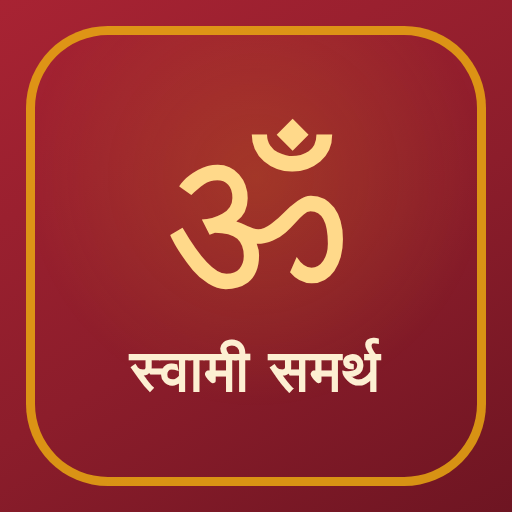
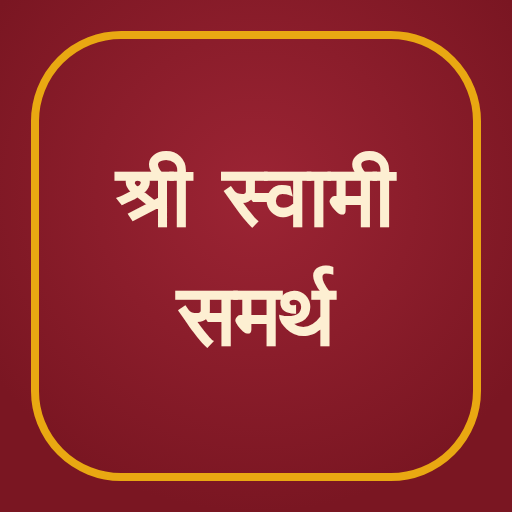
होम स्क्रीन आयकॉन (ॐ ऐवजी फक्त मजकूर) + पटकन प्रश्न-उत्तर चॅटबॉट
आयकॉन: ॐ चिन्हाऐवजी आता फक्त "श्री स्वामी समर्थ" मजकूर — तीच
मरून-गोल्डन ब्रँड शैली, तीनही साईज (512/192/apple-touch-icon) मध्ये.

चॅटबॉट: तळाशी उजवीकडे 💬 बटण — दाबल्यावर बॉटम-शीट उघडते. ८ तयार
प्रश्न-चिप्स (आरतीची वेळ, मुद्रण साहित्य, कार्यक्रम/उत्सव, संपर्क,
केंद्राची वेळ, बाल संस्कार, जपमाळ, होम स्क्रीन) + मोकळा टेक्स्ट-बॉक्स
(keyword जुळणीने उत्तर शोधतो). उत्तरं थेट KENDRA डेटावरून — बाहेरचं
AI/इंटरनेट काहीही लागत नाही, त्यामुळे नेहमी अद्ययावत व मोफत. न
जुळल्यास केंद्राच्या फोन नंबरकडे निर्देश करतो. संभाषण बंद-उघड
केल्यावरही टिकून राहतं.

Changed region(s): [[0.0, 0.0, 0.9688, 0.9688], [0.2188, 0.2188, 0.7812, 0.7812], [0.8438, 0.0, 1.0, 0.0625]]

diff --git a/index.html b/index.html
@@ -1233,6 +1233,44 @@ footer{text-align:center;margin-top:30px;font-size:14px;color:var(--shai-soft);l
   .bsheet-panel{border-radius:18px; max-height:min(78vh,640px)}
 }
 
+/* ---------- पटकन प्रश्न-उत्तर (FAQ चॅट) ---------- */
+.chatFab{
+  position:fixed; right:16px; bottom:calc(88px + env(safe-area-inset-bottom) + 14px);
+  z-index:19; width:54px; height:54px; border-radius:50%; border:0; cursor:pointer;
+  background:linear-gradient(180deg,#E9A812,#B54714); color:#fff8ea; font-size:23px;
+  display:flex; align-items:center; justify-content:center;
+  box-shadow:0 8px 20px -4px rgba(140,29,43,.45);
+}
+.chatFab:focus-visible{outline:3px solid var(--haldi); outline-offset:3px}
+.chat-panel{display:flex; flex-direction:column; overflow:hidden}
+.chat-log{
+  flex:1 1 auto; overflow-y:auto; display:flex; flex-direction:column; gap:10px;
+  padding:4px 2px 8px; margin-bottom:8px; min-height:100px; max-height:42vh;
+}
+.chat-msg{max-width:84%; padding:10px 13px; border-radius:14px; font-size:14.5px; line-height:1.55}
+.chat-msg.user{align-self:flex-end; background:var(--kumkum); color:#FFF3DA; border-bottom-right-radius:4px}
+.chat-msg.bot{align-self:flex-start; background:rgba(181,71,20,.08); color:var(--shai); border:1px solid var(--line); border-bottom-left-radius:4px}
+.chat-msg.bot b{color:var(--kumkum)}
+.chat-msg.bot a{color:var(--kesari); font-weight:600}
+.chat-chips{display:flex; flex-wrap:wrap; gap:7px; margin-bottom:10px; flex:0 0 auto}
+.chat-chips button{
+  font-family:inherit; font-size:12.5px; font-weight:600; color:var(--kesari);
+  background:rgba(217,83,30,.08); border:1px solid rgba(217,83,30,.25);
+  border-radius:999px; padding:8px 12px; cursor:pointer; min-height:36px;
+}
+.chat-chips button:focus-visible{outline:3px solid var(--haldi); outline-offset:2px}
+.chat-inputrow{display:flex; gap:8px; flex:0 0 auto}
+.chat-inputrow input{
+  flex:1 1 auto; min-width:0; padding:12px 14px; border:1px solid var(--line); border-radius:12px;
+  font-family:inherit; font-size:15px; background:var(--card); color:var(--shai);
+}
+.chat-inputrow input:focus-visible{outline:2px solid var(--haldi); outline-offset:1px}
+.chat-inputrow button{
+  width:44px; height:44px; border-radius:12px; border:0; flex:0 0 auto;
+  background:var(--kumkum); color:#FFF3DA; font-size:17px; cursor:pointer;
+}
+.chat-inputrow button:focus-visible{outline:3px solid var(--haldi); outline-offset:2px}
+
 @media (prefers-reduced-motion:reduce){
   *,*::before,*::after{animation:none!important;transition:none!important}
   .tl::after{transition:none!important}
@@ -1810,6 +1848,23 @@ footer{text-align:center;margin-top:30px;font-size:14px;color:var(--shai-soft);l
     <p class="bsheet-sub" id="bsheetSub"></p>
     <div class="bsheet-body" id="bsheetBody"></div>
     <button type="button" class="bsheet-close" id="bsheetClose">बंद करा</button>
+  </div>
+</div>
+
+<!-- पटकन प्रश्न-उत्तर (साधे FAQ — इंटरनेट/AI लागत नाही, साईटवरच्या माहितीतून थेट उत्तर) -->
+<button type="button" class="chatFab" id="chatFab" aria-label="पटकन प्रश्न विचारा">💬</button>
+<div class="bsheet" id="chatSheet" hidden>
+  <div class="bsheet-panel chat-panel" role="dialog" aria-modal="true" aria-labelledby="chatTitle">
+    <div class="bsheet-handle" aria-hidden="true"></div>
+    <h3 class="bsheet-title" id="chatTitle">पटकन प्रश्न-उत्तर</h3>
+    <p class="bsheet-sub">खालीलपैकी निवडा, किंवा टाईप करा</p>
+    <div class="chat-log" id="chatLog" aria-live="polite"></div>
+    <div class="chat-chips" id="chatChips"></div>
+    <form class="chat-inputrow" id="chatForm">
+      <input type="text" id="chatInput" placeholder="इथे प्रश्न टाईप करा…" autocomplete="off" aria-label="प्रश्न टाईप करा">
+      <button type="submit" aria-label="पाठवा">➤</button>
+    </form>
+    <button type="button" class="bsheet-close" id="chatClose">बंद करा</button>
   </div>
 </div>
 
@@ -4959,6 +5014,129 @@ const aartiSub = (function(){
   });
 })();
 
+
+// ---------- पटकन प्रश्न-उत्तर (FAQ चॅट) ----------
+// साधं keyword-जुळणी करणारं उत्तर-यंत्र — कुठलंही बाहेरचं AI/इंटरनेट लागत नाही,
+// साईटवरच्या KENDRA डेटावरूनच थेट, अद्ययावत उत्तर तयार होतं.
+(function(){
+  const fab = document.getElementById("chatFab");
+  const sheet = document.getElementById("chatSheet");
+  const log = document.getElementById("chatLog");
+  const chipsBox = document.getElementById("chatChips");
+  const form = document.getElementById("chatForm");
+  const input = document.getElementById("chatInput");
+  const closeBtn = document.getElementById("chatClose");
+  if(!fab || !sheet) return;
+  const reduced = matchMedia("(prefers-reduced-motion: reduce)").matches;
+
+  function aartiVel(){
+    const ctx = buildSevaCtx(istNow());
+    const list = ctx.sevaAaj.filter(s => s.name.includes("आरती") && s.lagu);
+    if(!list.length) return "आज आरतीची विशेष वेळ नोंदवलेली नाही — 'आरती' टॅबवर पूर्ण वेळापत्रक पहा.";
+    return "आजच्या आरत्या —<br>" + list.map(s => "🪔 " + s.name + ": <b>" + show(s.t) + "</b>").join("<br>");
+  }
+  function mudranMahiti(){
+    const rows = (KENDRA.mudran || []).map(m => m.d + ": <b>" + m.v + "</b>").join("<br>");
+    return "🖨 मुद्रण विभाग वेळ —<br>" + (rows || "माहिती लवकरच") +
+      "<br>अधिक माहितीसाठी 'माहिती' टॅबवरील मुद्रण विभाग पहा.";
+  }
+  function karyakramMahiti(){
+    const now = istNow();
+    const list = KENDRA.utsavSmaran || [];
+    const udya = dayKey(new Date(now.getFullYear(), now.getMonth(), now.getDate() + 1));
+    const ajISO = dayKey(now);
+    const aaj = list.find(s => s.date === ajISO);
+    const ubha = !aaj && list.find(s => s.date === udya);
+    const hit = aaj || ubha;
+    if(hit) return (aaj ? "🕉 आज — " : "🕉 उद्या — ") + "<b>" + hit.naav + "</b><br>सविस्तर 'कार्यक्रम' टॅबवर पहा.";
+    return "सध्या खास उत्सव जवळ नाही. संपूर्ण वार्षिक कार्यक्रम यादीसाठी 'कार्यक्रम' टॅब पहा.";
+  }
+  function sampark(){
+    return "📞 " + KENDRA.sevekari + ": <b>" + (KENDRA.phoneDisp || "") + "</b><br>📍 " + (KENDRA.patta || "");
+  }
+  function kendraVel(){
+    return "साधारण वेळ — सकाळी ७:०० ते दुपारी १:००, आणि दुपारी ४:०० ते रात्री ८:०० (गुरुवारी ९:०० पर्यंत).<br>सध्या केंद्र उघडं आहे की बंद, ते 'आज' टॅबवर वरतीच लगेच दिसतं.";
+  }
+  function balsanskarMahiti(){
+    const rows = (KENDRA.balsanskar || []).map(m => m.d + ": <b>" + m.v + "</b>").join("<br>");
+    return "🧒 बाल संस्कार वर्ग —<br>" + (rows || "") + "<br>वय ६ ते १४ वर्षे · प्रवेश विनामूल्य. नोंदणीसाठी 'माहिती' टॅबवरील फॉर्म वापरा.";
+  }
+  function homeScreen(){
+    return "पानाच्या अगदी वर एक पट्टी दिसते — तिथे \"होम स्क्रीनवर ठेवा\" असं लिहिलेलं आहे, तिथून करता येईल.";
+  }
+  function japmala(){
+    return "'आरती' टॅब → 'जपमाळा' उपटॅबमध्ये मधलं मोठं बटण दाबून जप मोजता येतो. एकदा दाबा = एक जप.";
+  }
+
+  const FAQ = [
+    { q:"आजची आरतीची वेळ काय?", kw:["आरती","आरतीची","आरत्या"], a:aartiVel },
+    { q:"मुद्रण साहित्य कधी मिळेल?", kw:["मुद्रण","साहित्य","पुस्तक","प्रिंट","छाप"], a:mudranMahiti },
+    { q:"आजचा कार्यक्रम/उत्सव काय?", kw:["कार्यक्रम","उत्सव","सण"], a:karyakramMahiti },
+    { q:"केंद्राशी संपर्क कसा करू?", kw:["संपर्क","फोन","नंबर","पत्ता","कुठे"], a:sampark },
+    { q:"केंद्र कधी उघडं असतं?", kw:["उघड","बंद","वेळ"], a:kendraVel },
+    { q:"बाल संस्कार वर्ग कधी असतो?", kw:["बाल","संस्कार","मुल","मुला","मुली"], a:balsanskarMahiti },
+    { q:"जपमाळ कशी मोजायची?", kw:["जपमाळ","जप","माळ"], a:japmala },
+    { q:"होम स्क्रीनवर कसं ठेवायचं?", kw:["होम","स्क्रीन","शॉर्टकट","इन्स्टॉल"], a:homeScreen }
+  ];
+
+  function addMsg(html, who){
+    const div = document.createElement("div");
+    div.className = "chat-msg " + who;
+    div.innerHTML = html;
+    log.appendChild(div);
+    log.scrollTop = log.scrollHeight;
+  }
+  function ask(qText, aHtml){
+    addMsg(qText, "user");
+    setTimeout(() => addMsg(aHtml, "bot"), reduced ? 0 : 220);
+  }
+  function matchFree(text){
+    const t = text.trim();
+    let best = null, bestScore = 0;
+    FAQ.forEach(f => {
+      let score = 0;
+      f.kw.forEach(k => { if(t.includes(k)) score++; });
+      if(score > bestScore){ bestScore = score; best = f; }
+    });
+    return bestScore > 0 ? best : null;
+  }
+  function renderChips(){
+    chipsBox.innerHTML = FAQ.map((f,i) => `<button type="button" data-i="${i}">${f.q}</button>`).join("");
+  }
+  chipsBox.addEventListener("click", e => {
+    const btn = e.target.closest("button[data-i]");
+    if(!btn) return;
+    const f = FAQ[+btn.dataset.i];
+    if(f) ask(f.q, f.a());
+  });
+  form.addEventListener("submit", e => {
+    e.preventDefault();
+    const text = input.value.trim();
+    if(!text) return;
+    input.value = "";
+    const hit = matchFree(text);
+    if(hit) ask(text, hit.a());
+    else ask(text, "याचं नेमकं उत्तर मला माहीत नाही 🙏 — कृपया केंद्राला संपर्क करा: <a href=\"tel:" + KENDRA.phone + "\">" + KENDRA.phoneDisp + "</a>");
+  });
+
+  function openChat(){
+    renderChips();
+    sheet.hidden = false;
+    requestAnimationFrame(() => sheet.classList.add("open"));
+    if(!log.children.length) addMsg("🙏 नमस्कार! खालीलपैकी प्रश्न निवडा, किंवा टाईप करा.", "bot");
+    setTimeout(() => input.focus({ preventScroll:true }), reduced ? 0 : 300);
+  }
+  function closeChat(){
+    sheet.classList.remove("open");
+    setTimeout(() => { sheet.hidden = true; }, reduced ? 0 : 280);
+  }
+  fab.addEventListener("click", openChat);
+  closeBtn.addEventListener("click", closeChat);
+  sheet.addEventListener("click", e => { if(e.target === sheet) closeChat(); });
+  addEventListener("keydown", e => {
+    if(e.key === "Escape" && sheet && !sheet.hidden) closeChat();
+  });
+})();
 
 // service worker — यामुळेच "होम स्क्रीनवर ठेवा" Android वर चालते
 // updateViaCache:"none" मुद्दाम — नाहीतर ब्राउझर sw.js फाईलच जुन्या (cached) प्रतीशी
